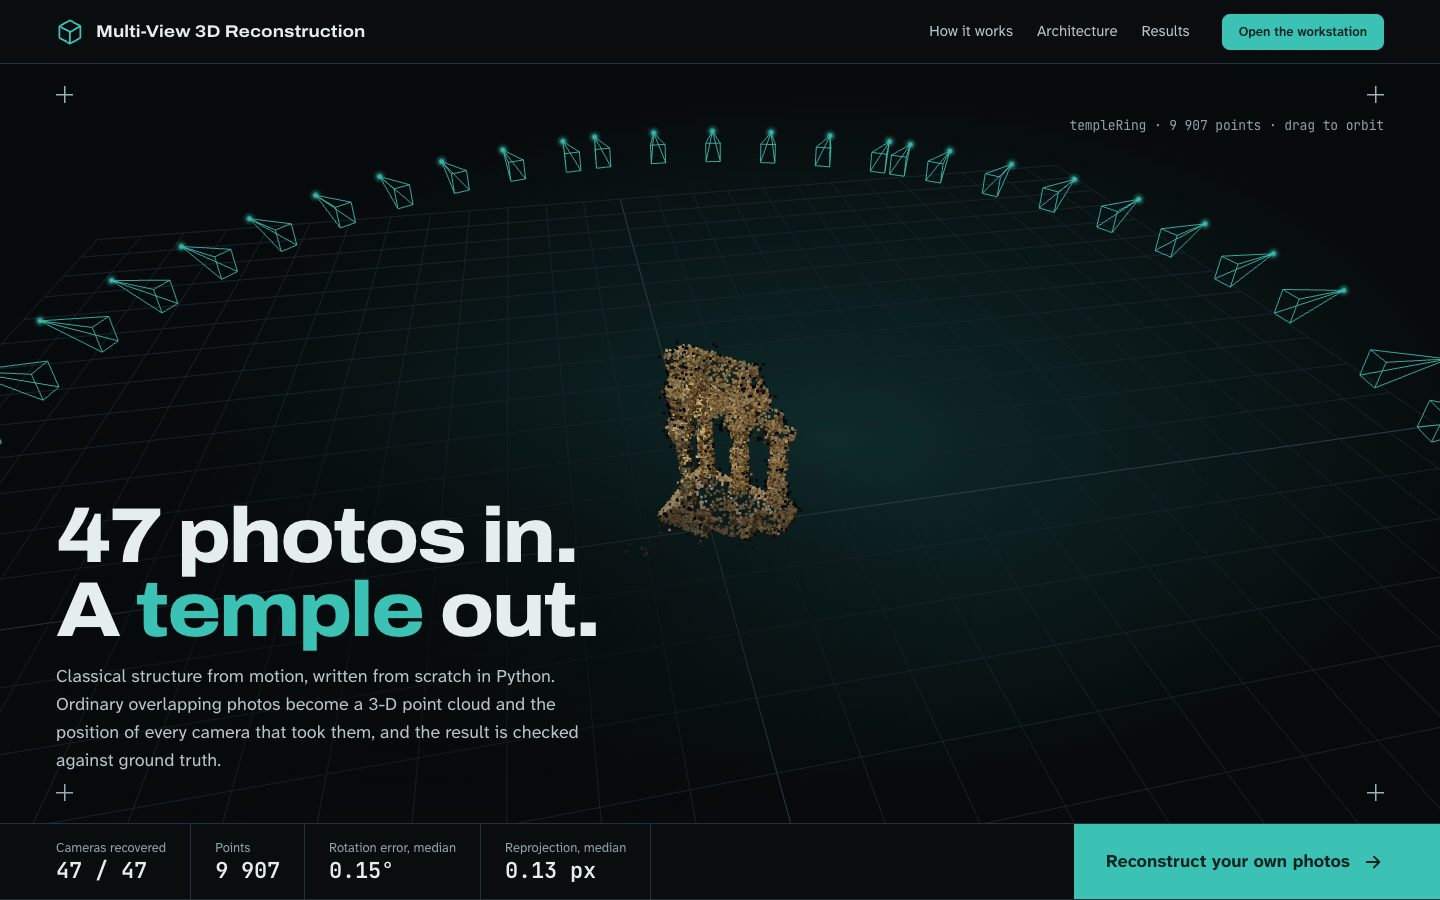
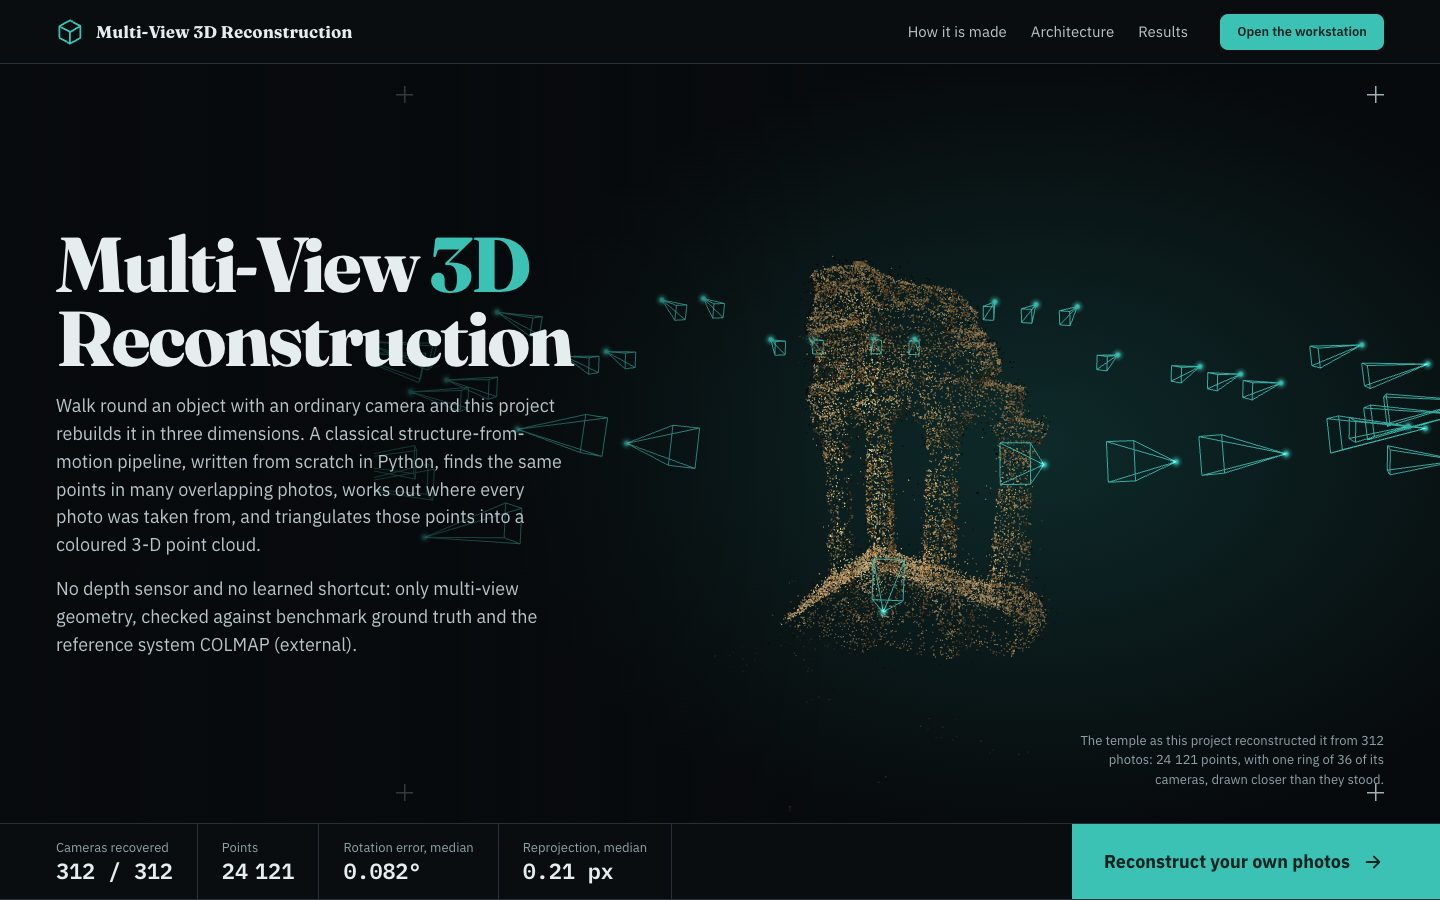
docs: README and architecture describe the Temple showcase and run persistence

diff --git a/README.md b/README.md
@@ -370,12 +370,12 @@ python -m src.web              # serves http://127.0.0.1:8000/ and opens it (--p
 
 The server has two pages:
 
-- **`/`: the overview.** It shows a real templeRing reconstruction live: the point cloud and the ring of its 47 recovered cameras, which you can orbit, with a label on each camera giving its error against ground truth. Below that come how it was made (photos, features, matches, cameras, cloud, each with numbers measured on that run), the architecture with the external parts labelled, and results against ground truth and COLMAP. The data is committed under `src/web/static/showcase/`, made by `python scripts/make_showcase.py <run folder> data/raw/templeRing` from a finished web run.
+- **`/`: the overview.** Behind the title, the full Middlebury Temple (312 photos) as this project reconstructed it turns constantly inside an even ring of 36 of its cameras: 312/312 cameras, 24 121 points, 0.08° median rotation error against ground truth. Below that come how the temple is made (photos, features, matches, cameras, cloud, each with numbers measured on that run), the same model live to explore (with all 312 cameras on request), the architecture with the external parts labelled, and results against ground truth and COLMAP. The data is committed under `src/web/static/showcase/`, made by `python scripts/make_showcase.py <run folder> data/raw/temple --up-axis y` from a finished web run (`python scripts/download_middlebury.py temple` fetches the photos).
 - **`/app.html`: the workstation.** Drop in a folder of photos, optionally with `camera.yaml` and `gt_cameras.json` (templeRing has both), and press **Reconstruct**. The pipeline column on the right ticks through the stages live, then shows what each stage produced (features per photo, matches, verified pairs and inliers, registered cameras, points kept; cached stages marked). The 3-D view (three.js, external) has orbit and pan, fit to the object or to every camera, auto-orbit, perspective or orthographic projection, layers and a label on each camera. Tabs show the camera poses against ground truth (sortable, worst camera highlighted), the matching figures and the statistics. **Replay** plays the run back with the cameras appearing in registration order. A console logs every stage. Exports are `filtered.ply`, `cameras.json` and `report.json`.
 
-Each run is a normal run folder, `outputs/<timestamp>_web_reconstruct/`, with twelve thumbnails of its photos, so earlier results are listed again after a restart; **Delete this run** removes one. The uploaded photos are deleted once their run has ended.
+Each run is a normal run folder, `outputs/<timestamp>_web_reconstruct/`, with twelve thumbnails of its photos, so earlier results are listed again after a restart; **Delete this run** removes one. The workstation opens empty; the run on screen survives a page reload (and a server restart) until it is cleared or deleted. The uploaded photos are deleted once their run has ended.
 
-![overview page: the templeRing reconstruction live](docs/images/web_intro.jpg)
+![overview page: the reconstructed temple turning behind the title](docs/images/web_intro.jpg)
 
 ![workstation on templeRing](docs/images/web_ui.png)
 
@@ -588,7 +588,7 @@ Report only metrics meaningful for the implementation tier (e.g. no camera-regis
 | **Integration** | Full pipeline and every CLI command on rendered scenes (`tests/render.py`); real photos via `scripts/evaluate_against_ground_truth.py` on templeRing | Completes, writes intermediates, outputs reload, poses match ground truth |
 | **Visual** | Matches, epipolar lines, trajectories, clouds | Manual inspection checklist each phase |
 
-489 tests run in ~2.5 min (`pytest -q`; the web tests are skipped without the `[web]` extra, the learned-feature tests without the `[learned]` extra). Test-first for geometry: write the synthetic test, watch it fail, implement, watch it pass. Automated tests cannot prove a point cloud looks like the object — visual inspection is a required step.
+494 tests run in ~2.7 min (`pytest -q`; the web tests are skipped without the `[web]` extra, the learned-feature tests without the `[learned]` extra). Test-first for geometry: write the synthetic test, watch it fail, implement, watch it pass. Automated tests cannot prove a point cloud looks like the object — visual inspection is a required step.
 
 ---
 

diff --git a/docs/architecture.md b/docs/architecture.md
@@ -75,7 +75,7 @@ flowchart LR
 
 Reconstructions run in a spawned child process because Open3D's offscreen renderer aborts outside the main thread, and a native crash must end one job rather than the server. A failed job keeps the outputs of the stages it finished. Finished runs are found again from their `report.json`: the job list lives in memory, the results in the run folders.
 
-The overview page (`/`) reads only committed files, `static/showcase/` (`src/web/showcase.py`, written by `scripts/make_showcase.py` from a finished run): the filtered cloud, the cameras, the report and five frames whose numbers are measured on the photos they show. It works offline except for the fonts and three.js. The workstation (`/app.html`) is the only page that talks to the API; both share `tokens.css` (colours, type, controls), `viewer.js` and `ui.js`.
+The overview page (`/`) reads only committed files, `static/showcase/` (`src/web/showcase.py`, written by `scripts/make_showcase.py` from a finished run): the filtered cloud, all cameras and an even display ring of them (`display_ring`), the report, the scene's true "up" measured against ground truth (`ground_truth_up`), and five frames whose numbers are measured on the photos they show. It works offline except for the fonts and three.js. The workstation (`/app.html`) is the only page that talks to the API; both share `tokens.css` (colours, type, controls), `viewer.js` and `ui.js`.
 
 ## Coordinate frames
 
